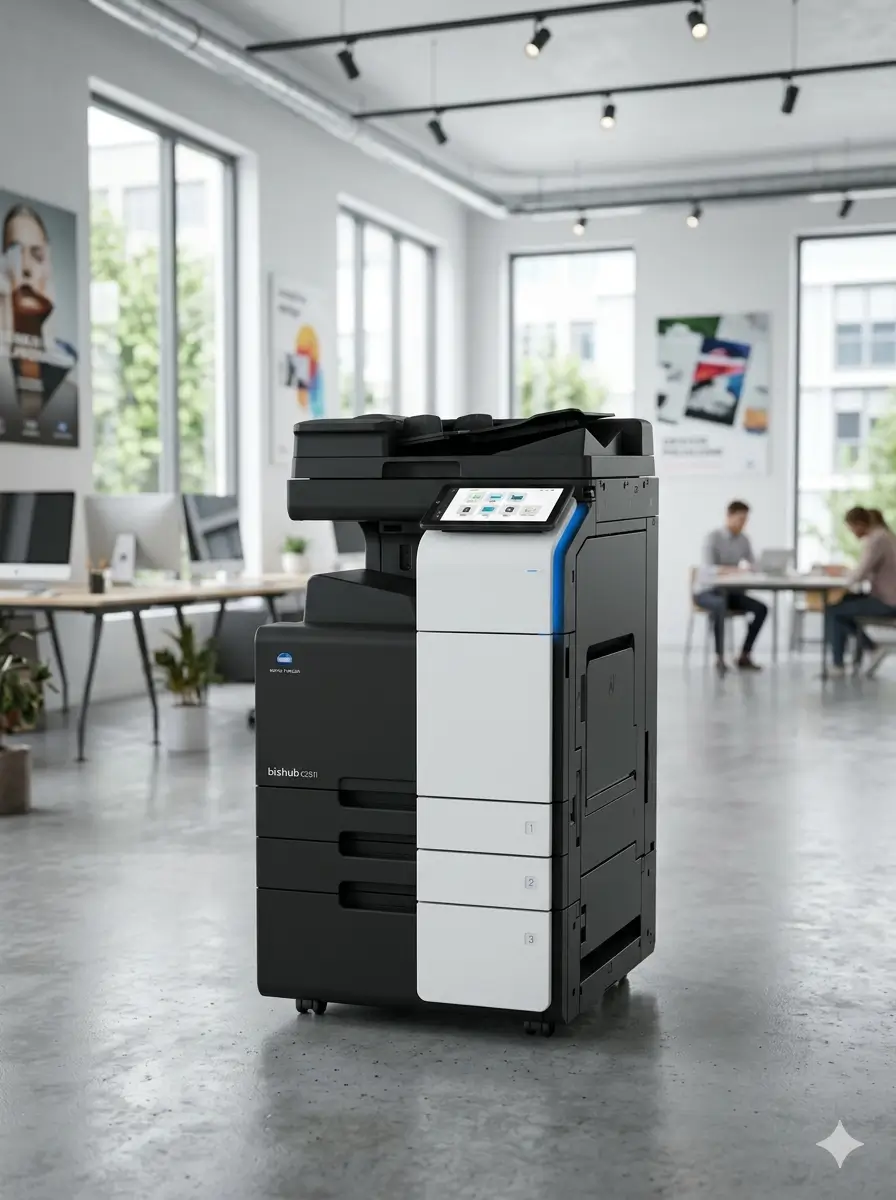
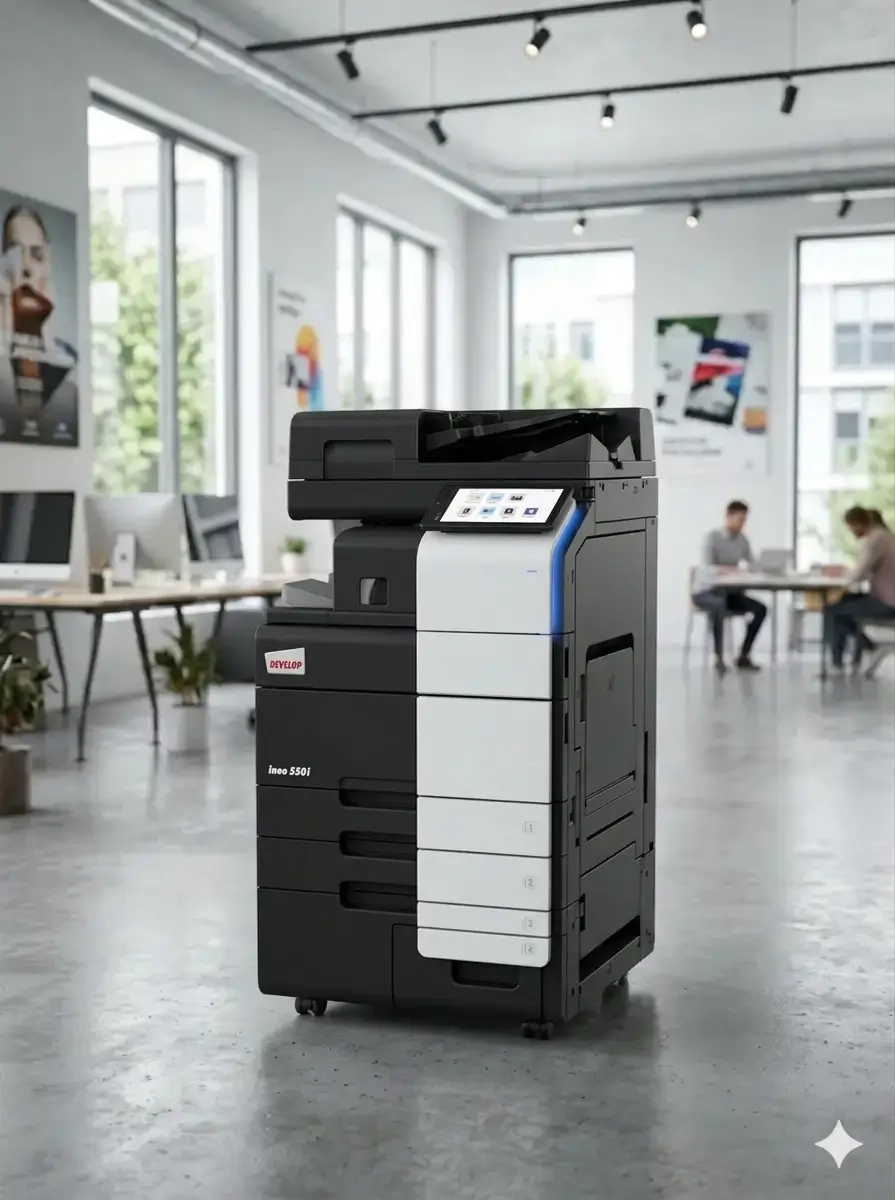
Updated services-segment descriptions

diff --git a/src/pages/ServicesPage/ServicesPage.jsx b/src/pages/ServicesPage/ServicesPage.jsx
@@ -219,7 +219,6 @@ const SegmentSection = ({ segment, index, total, t }) => {
           <div className="services-segment__meta">
             <span className="services-segment__index">{segment.indexLabel}</span>
             <span className="services-segment__sep" aria-hidden />
-            <span className="services-segment__count">— {pad(total)}</span>
           </div>
           <p className="services-segment__eyebrow">{t(segment.eyebrowKey)}</p>
           <h2 className="services-segment__title">{t(segment.titleKey)}</h2>
@@ -250,16 +249,6 @@ const SegmentSection = ({ segment, index, total, t }) => {
           </motion.figure>
 
           <div className="services-segment__column">
-            <motion.p
-              className="services-segment__desc"
-              initial={{ opacity: 0, y: 30 }}
-              whileInView={{ opacity: 1, y: 0 }}
-              viewport={{ once: true, amount: 0.3 }}
-              transition={{ duration: 0.9, ease: [0.16, 1, 0.3, 1] }}
-            >
-              {t(segment.descriptionKey)}
-            </motion.p>
-
             <motion.ul
               className="services-cards"
               initial="hidden"

diff --git a/src/pages/ServicesPage/ServicesPage.css b/src/pages/ServicesPage/ServicesPage.css
@@ -675,8 +675,8 @@ body[data-theme="dark"] .services-marquee__row--0 .parallax .scroller {
   list-style: none;
   margin: 0;
   padding: 0;
-  display: grid;
-  grid-template-columns: repeat(2, 1fr);
+  display: flex;
+  flex-direction: column;
   gap: clamp(0.8rem, 1.4vw, 1.2rem);
 }
 

diff --git a/src/data/servicesData.js b/src/data/servicesData.js
@@ -51,7 +51,6 @@ export const servicesSegments = [
     accentMedia: categoryPro,
     services: [
       { key: 'install', icon: '◆' },
-      { key: 'calibration', icon: '◉' },
       { key: 'repair', icon: '◇' },
       { key: 'preventive', icon: '✦' },
     ],
@@ -70,7 +69,6 @@ export const servicesSegments = [
       { key: 'blades', icon: '◆' },
       { key: 'tuning', icon: '◉' },
       { key: 'software', icon: '◇' },
-      { key: 'parts', icon: '✦' },
     ],
   },
   {
@@ -86,7 +84,6 @@ export const servicesSegments = [
     services: [
       { key: 'heads', icon: '◆' },
       { key: 'profile', icon: '◉' },
-      { key: 'media', icon: '◇' },
       { key: 'firmware', icon: '✦' },
     ],
   },